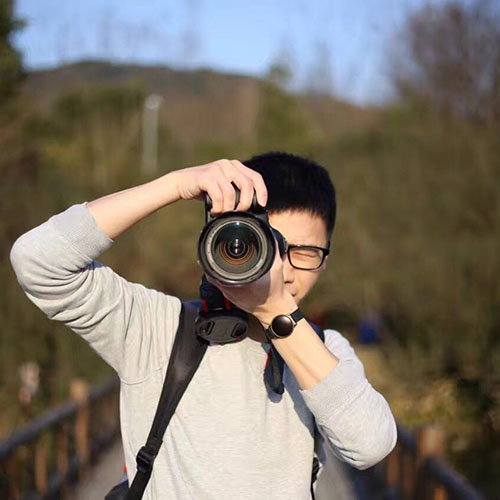
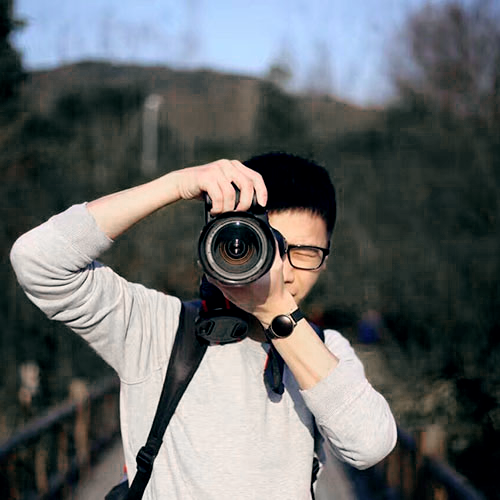
增加代理模式；修改头像；

diff --git a/_site/index.html b/_site/index.html
@@ -184,6 +184,39 @@
             ">
     			
 <div class="post-preview">
+    <a href="/2018/03/10/wzry/">
+        <h2 class="post-title">
+            关于王者荣耀的一些个人想法
+        </h2>
+        
+        <h3 class="post-subtitle">
+            
+        </h3>
+        
+        <div class="post-content-preview">
+            关于王者荣耀的一些个人想法
+
+
+  游戏目的：
+    
+      推掉敌方水晶：
+        
+          方式：
+            
+              游击战型：
+                
+                  思路：
+                    
+                      队友间频繁支援联动，形成人数优势...
+        </div>
+    </a>
+    <p class="post-meta">
+        Posted by ZhengWeihao on March 10, 2018
+    </p>
+</div>
+<hr>
+
+<div class="post-preview">
     <a href="/2018/02/23/spring/">
         <h2 class="post-title">
             Spring学习笔记
@@ -508,44 +541,6 @@
 </div>
 <hr>
 
-<div class="post-preview">
-    <a href="/2015/10/28/osx-operates/">
-        <h2 class="post-title">
-            OSX常用操作笔记
-        </h2>
-        
-        <h3 class="post-subtitle">
-            
-        </h3>
-        
-        <div class="post-content-preview">
-            OSX常用操作笔记
-
-
-  
-    环境变量设置：
-
-      环境变量目录（按顺序加载）：
-  /etc/profile
-  /etc/bashrc
-  ~/.bash_profile
-    
-  设置格式如：
-  export PATH=path1:path2:${PATH}
-    
-  
-  
-    设置Finder以显示路径：
-
-      defaults write c...
-        </div>
-    </a>
-    <p class="post-meta">
-        Posted by ZhengWeihao on October 28, 2015
-    </p>
-</div>
-<hr>
-
 
 <!-- Pager -->
 
@@ -591,6 +586,8 @@
                                 <a href="/tags/#Spring" title="Spring" rel="3">
                                     Spring
                                 </a>
+                            
+                        
                             
                         
                             
